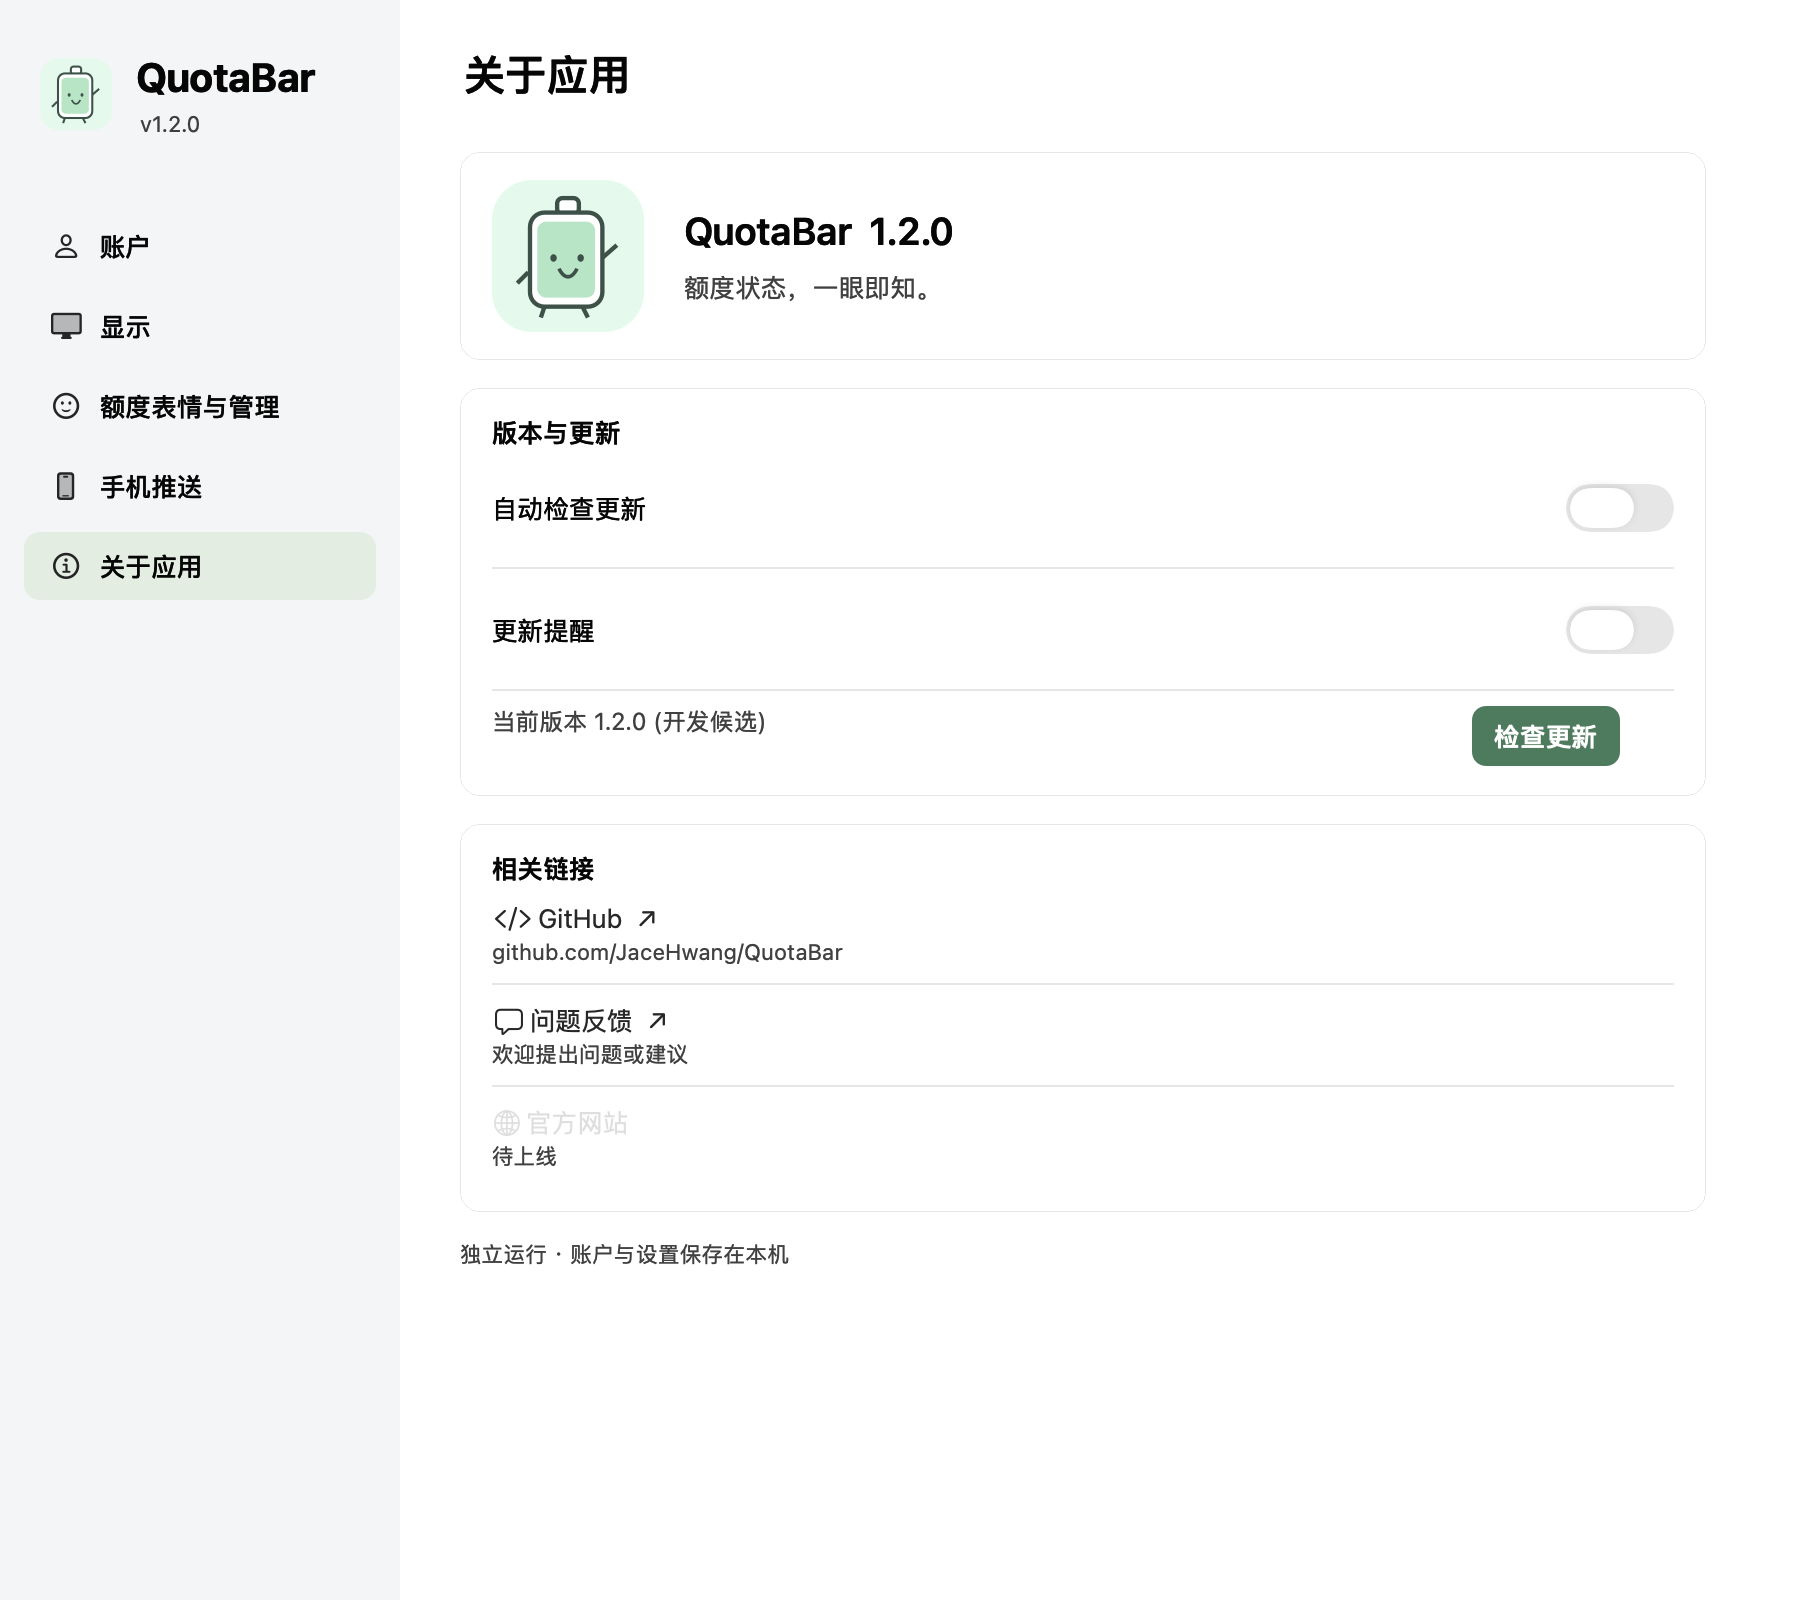
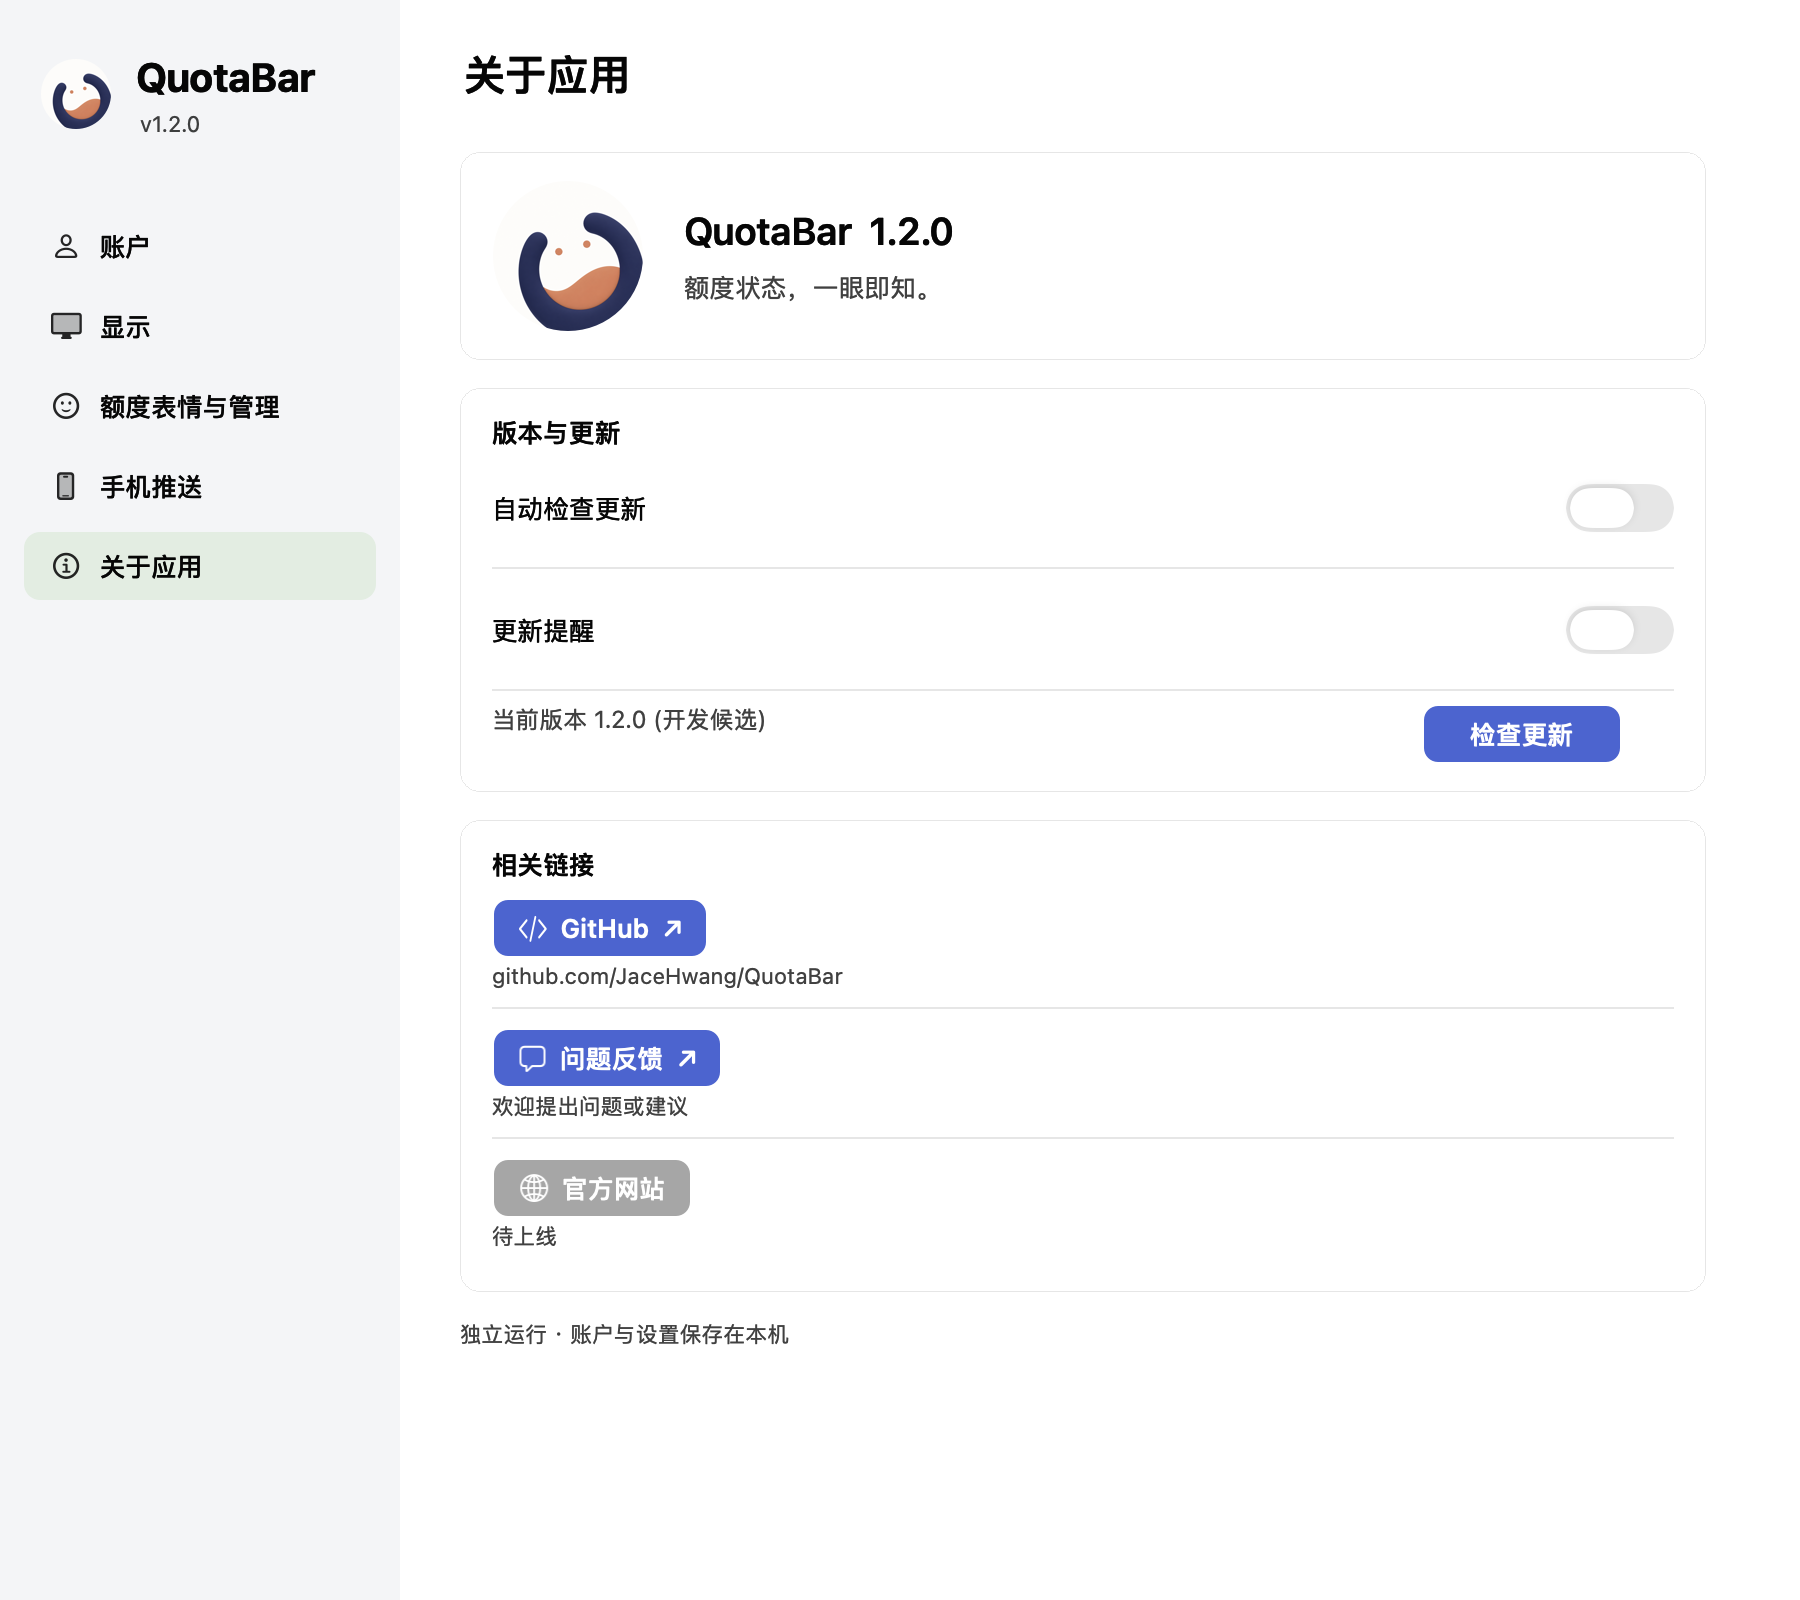
test: cover settings actions with live experience controls

diff --git a/native/Tests/CodexQuotaTests/SettingsGuideTests.swift b/native/Tests/CodexQuotaTests/SettingsGuideTests.swift
@@ -6,7 +6,10 @@ import QuotaCore
 @MainActor final class SettingsGuideTests: XCTestCase {
     func tree(_ v: NSView) -> [NSView] { [v] + v.subviews.flatMap(tree) }
     func testSettingsActionsShareBarkMetricsAndDetailBrand() throws {
-        let coordinator = StandaloneCoordinator(defaults: UserDefaults(suiteName: "Uniform.\(UUID())")!, root: FileManager.default.temporaryDirectory.appendingPathComponent(UUID().uuidString))
+        let defaults = UserDefaults(suiteName: "Uniform.\(UUID())")!
+        let root = FileManager.default.temporaryDirectory.appendingPathComponent(UUID().uuidString)
+        let experience = QuotaExperienceController(root: root, defaults: defaults, language: { .english }, requestPermission: { $0("") })
+        let coordinator = StandaloneCoordinator(experienceController: experience, defaults: defaults, root: root)
         let window = coordinator.makeSettingsWindow(); defer { window.close() }
         let shell = try XCTUnwrap(window.contentView as? QuotaSettingsShellView)
         XCTAssertEqual(tree(shell).filter { $0 is QuotaThemeIconView }.count, 1, "Sidebar must reuse the detail ring")
@@ -87,7 +90,9 @@ import QuotaCore
             let suite = "GuideRender.\(UUID())", defaults = UserDefaults(suiteName: "GuideRender.temporary")!
             defaults.set(language.rawValue, forKey: "standalone.language"); defaults.set(true, forKey: "updates.autoDisabled")
             let update = QuotaUpdateController(defaults: defaults, version: "1.2.0", text: { en, zh, tw in language == .english ? en : language == .simplifiedChinese ? zh : tw }); defer { update.stop() }
-            let coordinator = StandaloneCoordinator(updateController: update, defaults: defaults, root: FileManager.default.temporaryDirectory.appendingPathComponent(suite))
+            let root = FileManager.default.temporaryDirectory.appendingPathComponent(suite)
+            let experience = QuotaExperienceController(root: root, defaults: defaults, language: { language }, requestPermission: { $0("") })
+            let coordinator = StandaloneCoordinator(updateController: update, experienceController: experience, defaults: defaults, root: root)
             let window = coordinator.makeSettingsWindow(); defer { window.close(); defaults.removePersistentDomain(forName: "GuideRender.temporary") }
             let shell = try XCTUnwrap(window.contentView as? QuotaSettingsShellView)
             for dark in [false, true] {

diff --git a/docs/images/README.md b/docs/images/README.md
@@ -19,3 +19,5 @@ The original system-language preference and menu bar icon-only setting were rest
 - `settings-c-macos-mobile.png` / `settings-c-macos-about.png`：C设置方案实际AppKit渲染（简中浅色），示例/未配置状态；不包含真实Key或账户数据。
 
 - `settings-c-windows-*.png`：产品提交8ac7ce1在Windows原生CI39896122629的WPF实际渲染，英文深色192 DPI与840×560滚动后的教程/关于页。版本1.0.0为测试注入值，非发布版本；无真实Key。
+
+以上C设置实际截图已于按钮统一后刷新：Mac原生渲染及Windows产品f538e7a/CI39912163460，圆环品牌与统一蓝色操作按钮；Windows版本1.0.0仍为测试注入值。
